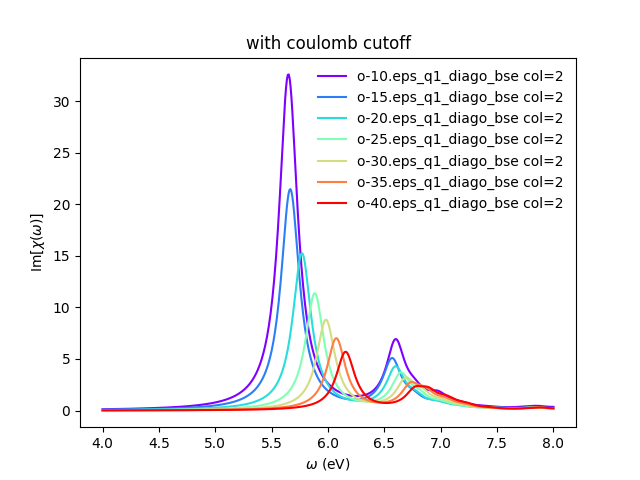
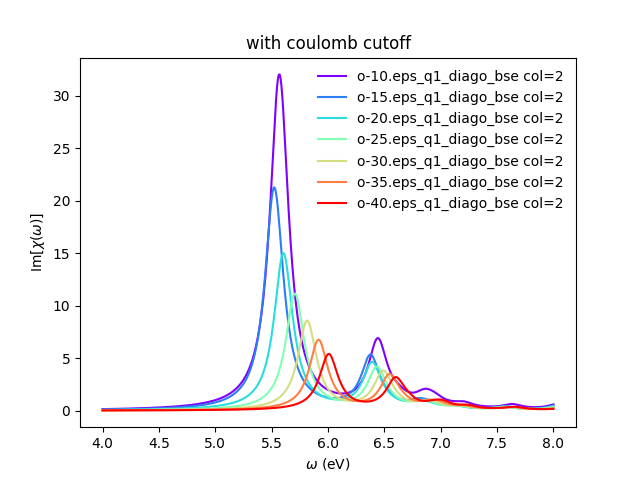
Changed BSE tutorial figures and added more details for plotting the wavefunction

diff --git a/tutorial/bn/bse_bn.py b/tutorial/bn/bse_bn.py
@@ -103,7 +103,7 @@ def run(nthreads=1,cut=False):
         shell.add_command('cd bse; mpirun -np %d %s -F yambo_run.in -J yambo'%(nthreads,yambo))
     shell.run()
     
-def analyse():
+def analyse(dry=False):
     #pack in a json file
     y = YamboOut('bse')
     y.pack()
@@ -117,18 +117,21 @@ def analyse():
     # min_intensity -> choose the excitons that have at least this intensity
     # max_energy    -> choose excitons with energy lower than this
     # Degen_Step    -> take only excitons that have energies more different than Degen_Step
-    excitons = a.get_excitons(min_intensity=0.0005,max_energy=7,Degen_Step=0.01)
+    excitons = a.get_excitons(min_intensity=0.001,max_energy=8.0,Degen_Step=0.01)
     print( "nexcitons: %d"%len(excitons) )
     print( "excitons:" )
-    print( excitons )
+    print( "  Energy  Intensity Index")
+    for exciton in excitons:
+        print( "%8.4lf %8.4lf %5d"%tuple(exciton) )
 
-    # read the wavefunctions
-    # Cells=[13,13,1]   #number of cell repetitions
-    # Hole=[0,0,6+.5]   #position of the hole in cartesian coordinates (Bohr units)
-    # FFTGvecs=10       #number of FFT vecs to use, larger makes the
-    #                   #image smoother, but takes more time to plot
-    a.get_wavefunctions(Degen_Step=0.01,repx=range(-1,2),repy=range(-1,2),repz=range(1),
-                        Cells=[13,13,1],Hole=[0,0,6+.5], FFTGvecs=10,wf=True)
+    if dry:
+        # read the wavefunctions
+        # Cells=[13,13,1]   #number of cell repetitions
+        # Hole=[0,0,6+.5]   #position of the hole in cartesian coordinates (Bohr units)
+        # FFTGvecs=10       #number of FFT vecs to use, larger makes the
+        #                   #image smoother, but takes more time to plot
+        a.get_wavefunctions(Degen_Step=0.01,repx=range(-1,2),repy=range(-1,2),repz=range(1),
+                            Cells=[13,13,1],Hole=[0,0,6+.5], FFTGvecs=10,wf=True)
 
     a.write_json()
 
@@ -140,6 +143,7 @@ if __name__ == "__main__":
     parser.add_argument('-r', '--run',        action="store_true", help='Run BSE calculation')
     parser.add_argument('-c', '--cut',        action="store_true", help='Use coulomb truncation')
     parser.add_argument('-a', '--analyse',    action="store_true", help='plot the results')
+    parser.add_argument('-d', '--dry',        action="store_false", help='print excitons only')
     parser.add_argument('-t' ,'--nthreads',                        help='Number of threads', default=1)
     args = parser.parse_args()
     nthreads = int(args.nthreads)
@@ -152,4 +156,4 @@ if __name__ == "__main__":
     dg = args.doublegrid
     create_save(dg)
     if args.run:     run(nthreads,cut) 
-    if args.analyse: analyse()
+    if args.analyse: analyse(args.dry)

diff --git a/yambopy/recipes.py b/yambopy/recipes.py
@@ -507,7 +507,7 @@ def plot_excitons(filename,cut=0.2,size=20):
     plt.subplots_adjust(left=None, bottom=None, right=None, top=None, wspace=0.01, hspace=0.01)
 
     #remove extension from file
-    figure_filename = os.path.splitext(filename)
+    figure_filename = os.path.splitext(filename)[0]
     plt.savefig('%s.png'%figure_filename)
     if 'DISPLAY' in os.environ:
         plt.show()

diff --git a/docs/source/tutorial.rst b/docs/source/tutorial.rst
@@ -435,10 +435,7 @@ Plots in real space are also possible using yambopy (by calling ypp). In the ana
     # min_intensity -> choose the excitons that have at least this intensity
     # max_energy    -> choose excitons with energy lower than this
     # Degen_Step    -> take only excitons that have energies more different than Degen_Step
-    excitons = a.get_excitons(min_intensity=0.0005,max_energy=7,Degen_Step=0.01)
-    print( "nexcitons: %d"%len(excitons) )
-    print( "excitons:" )
-    print( excitons )
+    excitons = a.get_excitons(min_intensity=0.001,max_energy=7,Degen_Step=0.01)
 
     # read the wavefunctions
     # Cells=[13,13,1]   #number of cell repetitions
@@ -463,6 +460,8 @@ To run this part of the code you can do:
     python bse_bn.py -a  #this will generate absorptionspectra.json
     yambopy plotexcitons absorptionspectra.json #this will plot it
     
+You can tune the parameters ``min_intensity`` and ``max_energy`` and obtain more or less excitons.
+``Degen_Step`` is used to not consider excitons that are degenerate in energy. The reason is that when representing the excitonic wavefunction, degenerate states should be represented together. This value should in general be very small in order to not combine excitons that have energies close to each other but are not exactly degenerate.
 You should then obtain plots similar (these ones were generated on a 30x30 k-point grid) to the figures presented here:
 
 .. image:: figures/absorption_bn.png
@@ -476,14 +475,15 @@ You should then obtain plots similar (these ones were generated on a 30x30 k-poi
 
 Again, be aware that this figures serve only to show the kind of representation 
 that can be obtained with ``yambo``, ``ypp`` and ``yambopy``.
-Further convergence tests need to be performed to obtain accurate results, but that is left to the user.
+Further convergence tests need to be performed to obtain accurate results, but that is left to the user. You are invited to re-run the nscf loop with more k-points and represent the resulting
+wavefunctions.
 
 You can now visualize these wavefunctions in real space using our online tool:
 `http://henriquemiranda.github.io/excitonwebsite/ <http://henriquemiranda.github.io/excitonwebsite/>`_ 
 
 For that, go to the website, and in the ``Excitons`` section select ``absorptionspectra.json`` file using the ``Custom File``.
-You shuold see on the right part the absorption spectra and on the right the representation of the wavefunction in real space.
-Alternatively you can vizualize the generated ``.xsf`` files using xcrysden.
+You shuold see on the right part the absorption spectra and on the left the representation of the wavefunction in real space.
+Alternatively you can vizualize the individually generated ``.xsf`` files using xcrysden.
 
 4. Parallel static screening
 ~~~~~~~~~~~~~~~~~~~~~~~~~~~~~~~~
